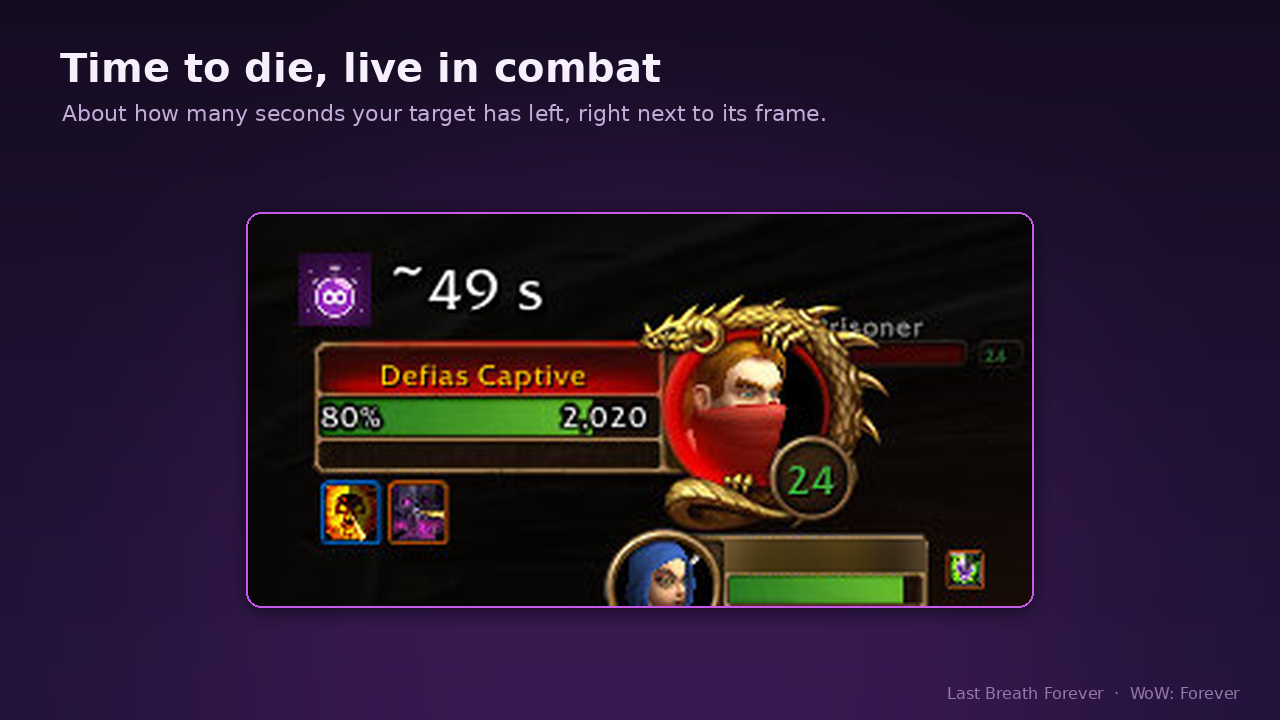
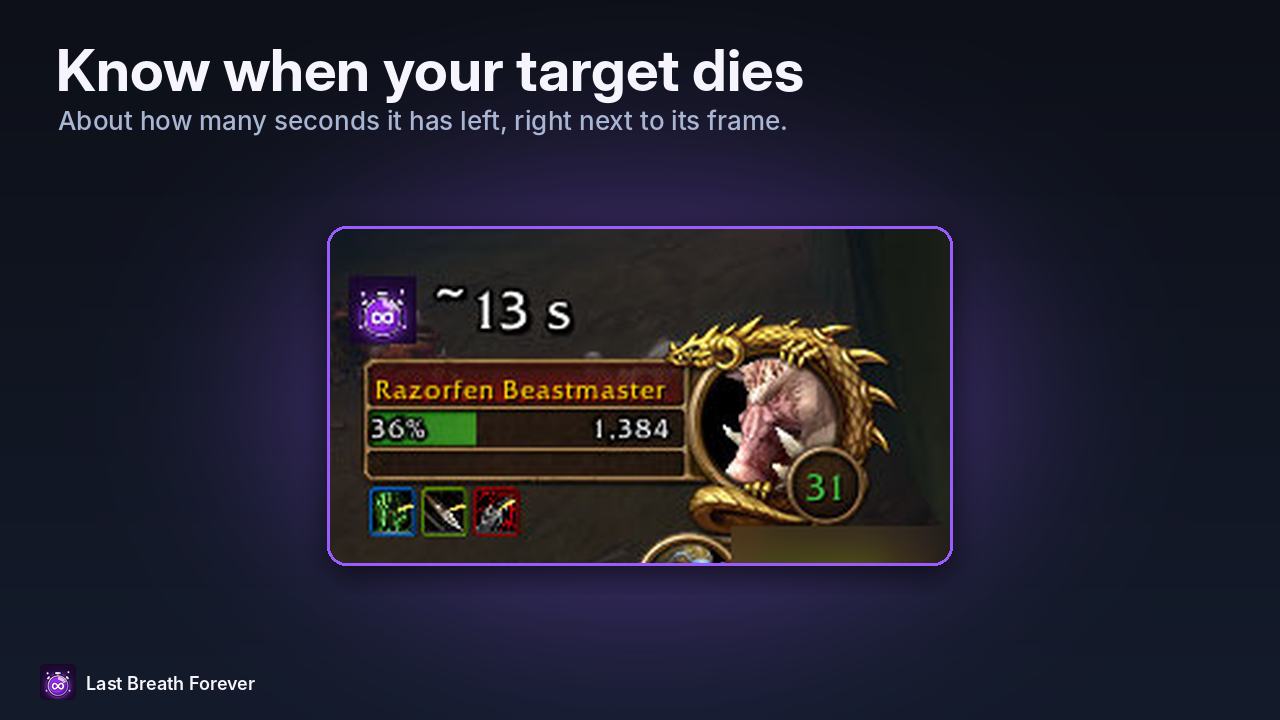
Gallery 0.2.0 in the series style: nameplates first, every enemy of the pull, target, last seconds and focus, settings; README and store text images

diff --git a/CURSEFORGE.md b/CURSEFORGE.md
@@ -2,7 +2,9 @@
 
 A small frame next to your target shows **"~12 s"** (longer times as "~2:30" or "~12 min"), live in combat, and the same seconds stand **above every enemy's nameplate**. Finish the long cast or switch targets, see which mob of a pull dies first, keep the potion, the trinket and the cooldown for the last seconds, and see when a boss is about to go down. Solo, in a group, in dungeons and on bosses. For every class: damage dealers, tanks and healers.
 
-![Time to die: about how many seconds your target has left, next to its frame](https://raw.githubusercontent.com/KesaObscura/LastBreathForever/main/docs/images/time-to-die-live-in-combat.png)
+![Time to die on every nameplate: which mob of a pull dies first](https://raw.githubusercontent.com/KesaObscura/LastBreathForever/main/docs/images/time-to-die-on-nameplates.png)
+
+*From the author of [Full Mana Forever](https://www.curseforge.com/wow/addons/full-mana-forever).*
 
 *Features asked for in the comments get built. Tell us what you need: comment here or open an issue on [GitHub](https://github.com/KesaObscura/LastBreathForever/issues).*
 
@@ -13,6 +15,9 @@ A small frame next to your target shows **"~12 s"** (longer times as "~2:30" or 
 - **Joined late?** A boss you take into your target at 50 %, the next mob of a pull: it gets its seconds too, a little later, once it has lost some more health.
 - **Time to die on nameplates:** small seconds above every enemy that is being hit, also above your target and your focus: see which mob of a pull goes down first and where to put the next cast. The same enemy shows the same number everywhere. Only for the last 30 s by default (up to 1:30), above the enemy's debuffs.
 - **Boss and adds at the same time:** every enemy with a nameplate is counted from its first hit, also while it is not your target. Switch from an add to the boss and back, and the seconds are there at once. Needs the enemy nameplates switched on.
+
+![Seconds above every enemy of a dungeon pull](https://raw.githubusercontent.com/KesaObscura/LastBreathForever/main/docs/images/every-enemy-of-the-pull.png)
+
 - **Last seconds in red**: from 5 s up to a minute before the end (10 s by default), for the cooldowns, trinkets and potions you keep for the finish.
 - **Longer fights read easily:** "~2:30" above 90 s, "~12 min" above 10 minutes.
 
@@ -33,7 +38,7 @@ Three columns, target, focus and nameplates (the focus frame and the nameplates 
 - **Language**: your game's language or any of the 9; the window opens where you left it.
 - Unlock the frames to drag them anywhere; a fight locks them again.
 
-![The settings window: target, focus and nameplates in three columns](https://raw.githubusercontent.com/KesaObscura/LastBreathForever/main/docs/images/settings-target-focus.png)
+![The settings window: target, focus and nameplates in three columns](https://raw.githubusercontent.com/KesaObscura/LastBreathForever/main/docs/images/settings-target-focus-nameplates.png)
 
 ## Commands
 

diff --git a/README.md b/README.md
@@ -13,11 +13,13 @@ finish the long cast, switch targets, see which mob of a pull dies first, or sav
 the cooldown for the last seconds. Solo, in a group, in dungeons and on bosses. Part of the
 Forever series with [Full Mana Forever](https://github.com/KesaObscura/FullManaForever).
 
-![Time to die: about how many seconds your target has left, next to its frame](docs/images/time-to-die-live-in-combat.png)
+![Time to die on every nameplate: which mob of a pull dies first](docs/images/time-to-die-on-nameplates.png)
 
-| The last seconds in red, the focus too | Settings for the target, the focus and the nameplates |
+| Every enemy of the pull | Time to die at your target |
 |---|---|
-| ![The last seconds in red; a second frame for the focus](docs/images/last-seconds-red-focus-frame.png) | ![The settings window: target and focus in two columns](docs/images/settings-target-focus.png) |
+| ![Seconds above every enemy of a dungeon pull](docs/images/every-enemy-of-the-pull.png) | ![About how many seconds your target has left, next to its frame](docs/images/time-to-die-live-in-combat.png) |
+| **The last seconds in red, the focus too** | **Settings: target, focus and nameplates** |
+| ![The last seconds in red; a second frame for the focus](docs/images/last-seconds-red-focus-frame.png) | ![The settings window: target, focus and nameplates in three columns](docs/images/settings-target-focus-nameplates.png) |
 
 ## Time to die: what it shows
 
